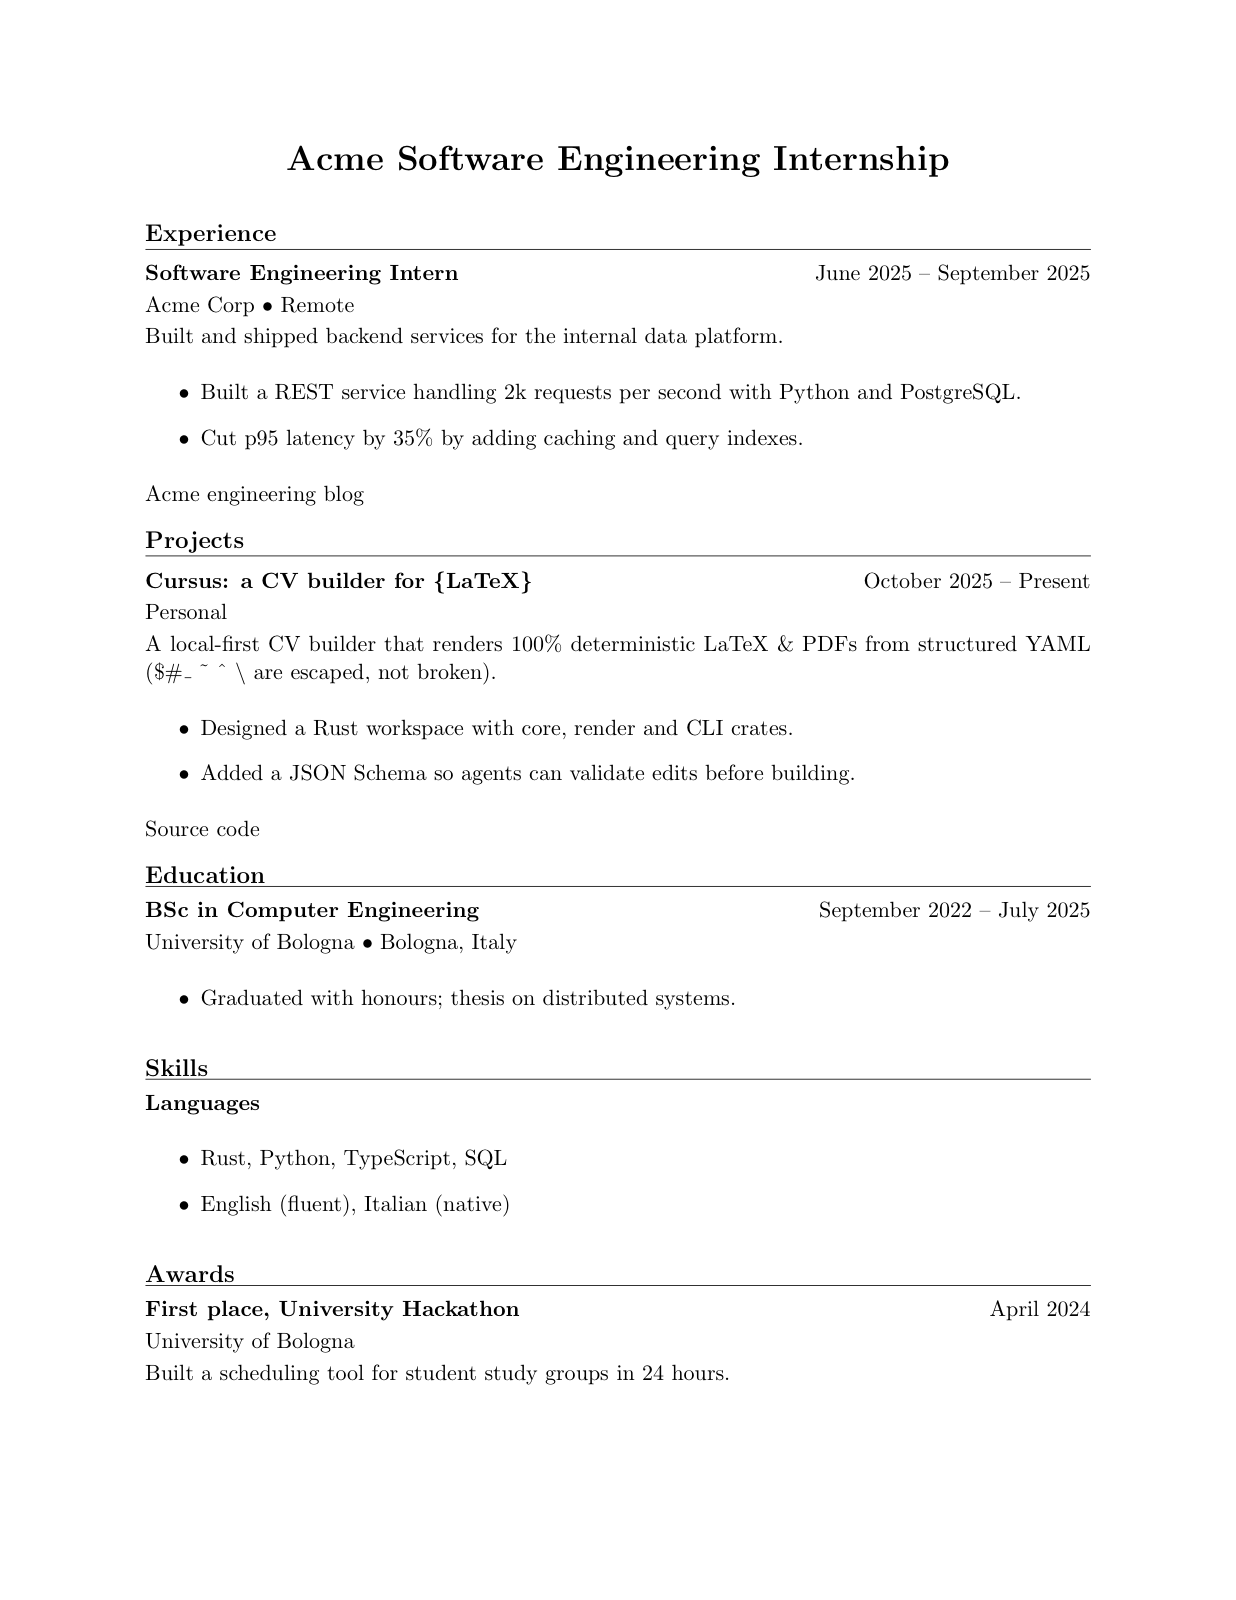
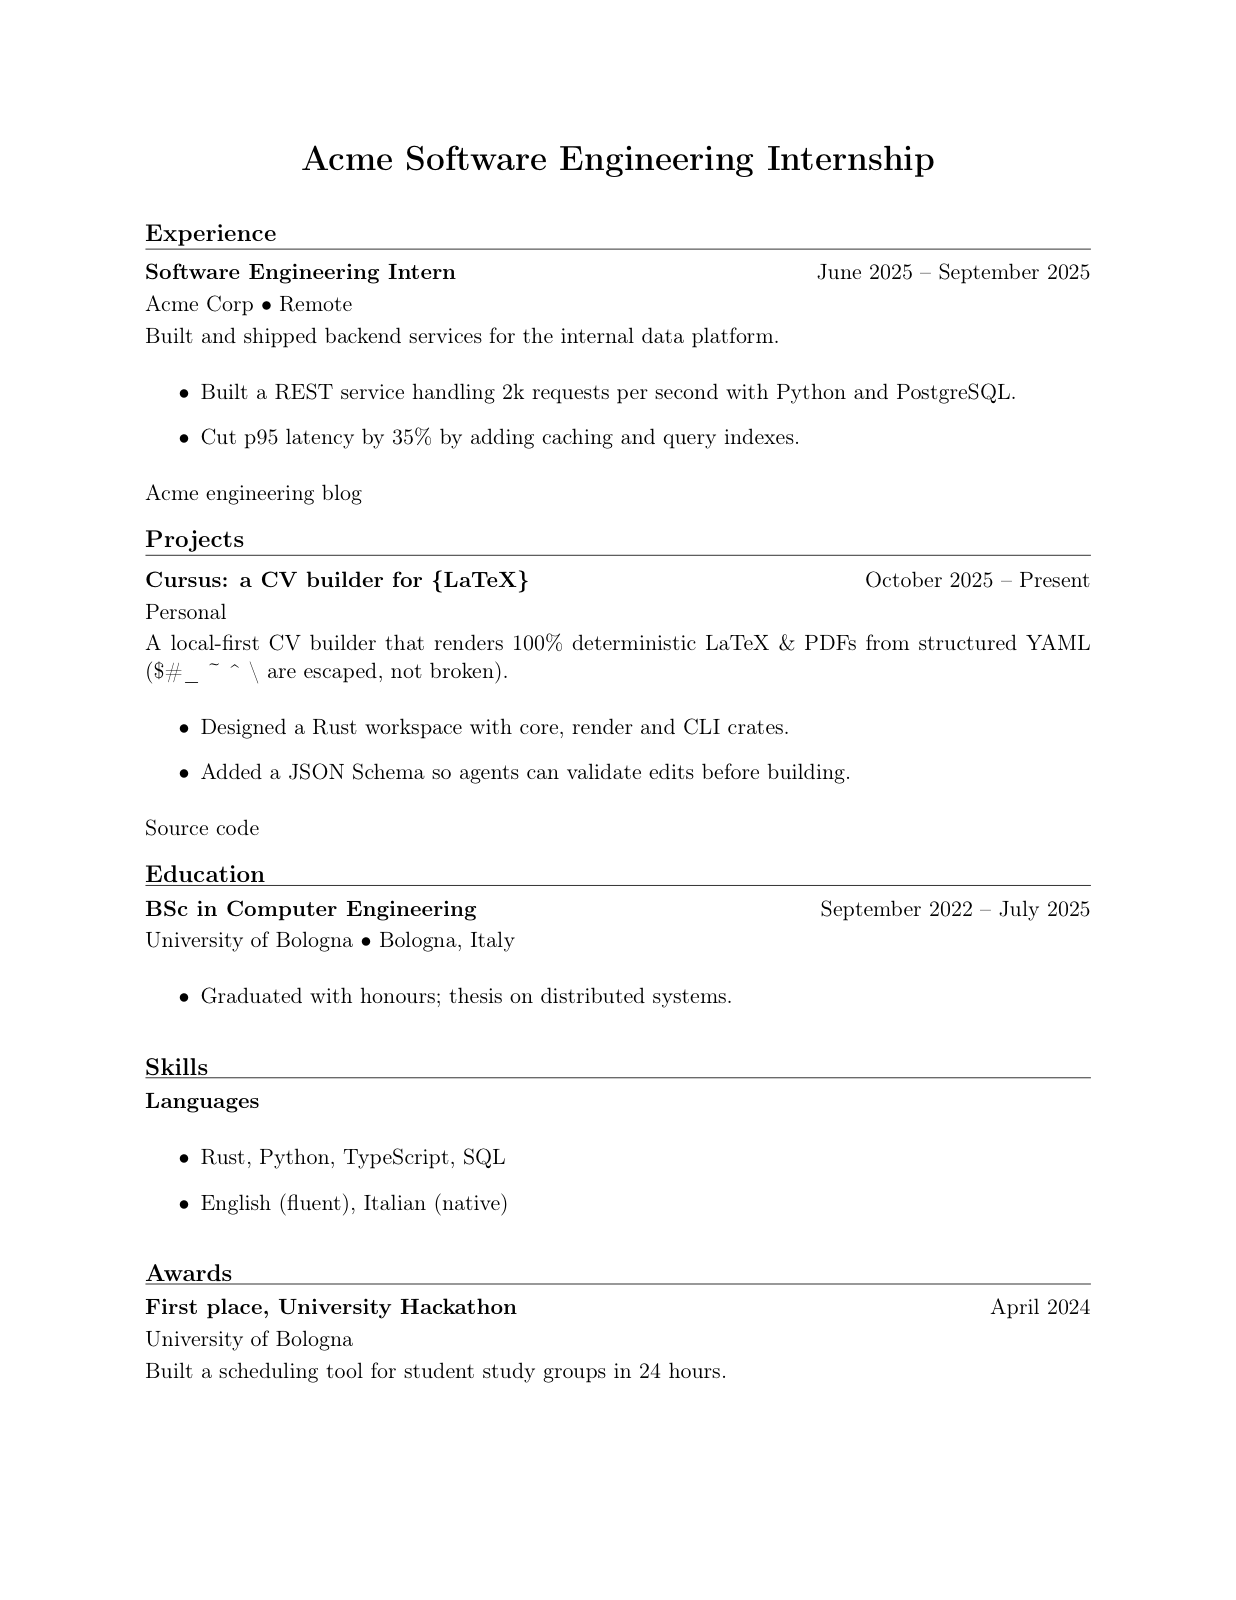
fix(render): load T1 font encoding for accented text
T1 makes accented characters and punctuation render correctly with pdflatex, and drops an unused CLI dependency.

diff --git a/crates/render/templates/classic.tex b/crates/render/templates/classic.tex
@@ -1,5 +1,6 @@
 % Generated by Cursus with the classic template. Do not edit this file.
 \documentclass[11pt]{article}
+\usepackage[T1]{fontenc}
 \usepackage[margin=1in]{geometry}
 \usepackage[hidelinks]{hyperref}
 \pagestyle{empty}

diff --git a/crates/render/tests/golden/acme-swe.tex b/crates/render/tests/golden/acme-swe.tex
@@ -1,5 +1,6 @@
 % Generated by Cursus with the classic template. Do not edit this file.
 \documentclass[11pt]{article}
+\usepackage[T1]{fontenc}
 \usepackage[margin=1in]{geometry}
 \usepackage[hidelinks]{hyperref}
 \pagestyle{empty}
